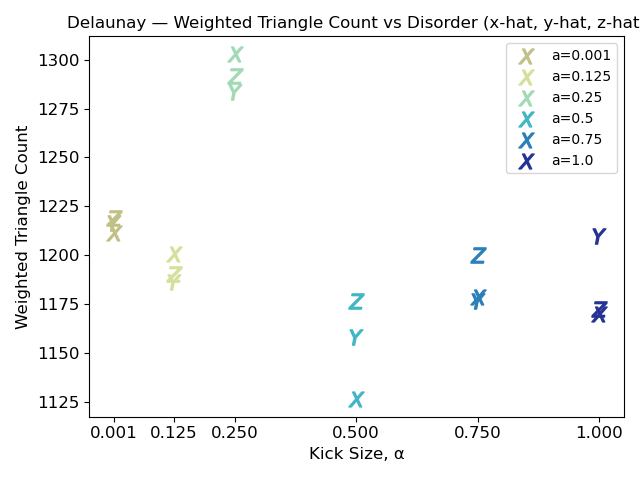
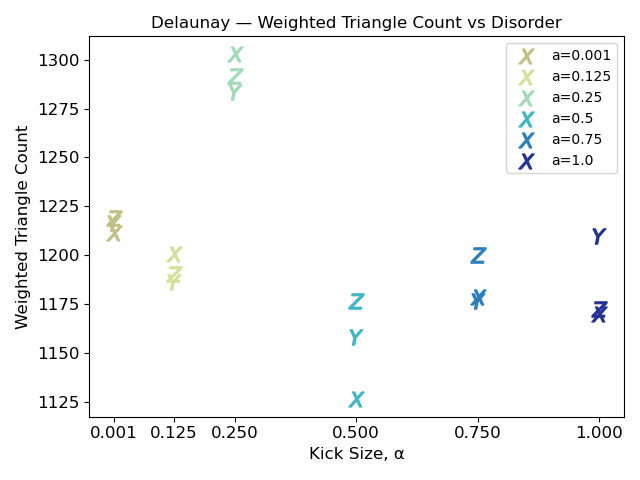
reorg

Changed region(s): [[0.0938, 0.0312, 1.0, 0.0625]]

diff --git a/network_measures/triangles.py b/network_measures/triangles.py
@@ -238,7 +238,7 @@ def plot_weighted_tesselation(tesselation, ax=None, save_path=None, show=True):
     ax.legend([legend_handles[a] for a in all_a_values], [f"a={a}" for a in all_a_values])
 
     ax.tick_params(axis='both', labelsize=12)
-    ax.set_title(f"{title} — Weighted Triangle Count vs Disorder (x-hat, y-hat, z-hat)")
+    ax.set_title(f"{title} — Weighted Triangle Count vs Disorder")
     plt.tight_layout()
 
     if save_path:
@@ -339,14 +339,14 @@ if __name__ == "__main__":
     os.makedirs(OUTPUT_ROOT, exist_ok=True)
 
     """This is to generate the plot for weighted triangles"""
-    for letter in TESSELATION_NAMES:
-        title = TESSELATION_NAMES[letter]
-        plot_weighted_tesselation(
-            letter,
-            save_path=os.path.join(OUTPUT_ROOT, f"{title}-Weighted-Triangles-vs-Disorder.png"),
-            show=False,
-        )
-        plt.close("all")
+    # for letter in TESSELATION_NAMES:
+    #     title = TESSELATION_NAMES[letter]
+    #     plot_weighted_tesselation(
+    #         letter,
+    #         save_path=os.path.join(OUTPUT_ROOT, f"{title}-Weighted-Triangles-vs-Disorder.png"),
+    #         show=False,
+    #     )
+    #     plt.close("all")
 
     """This is for the visualization plots, no plot has been made for this yet"""
     # visualize_weighted_triangles("centroidal", 1, "x", output_dir=None, show=True)
